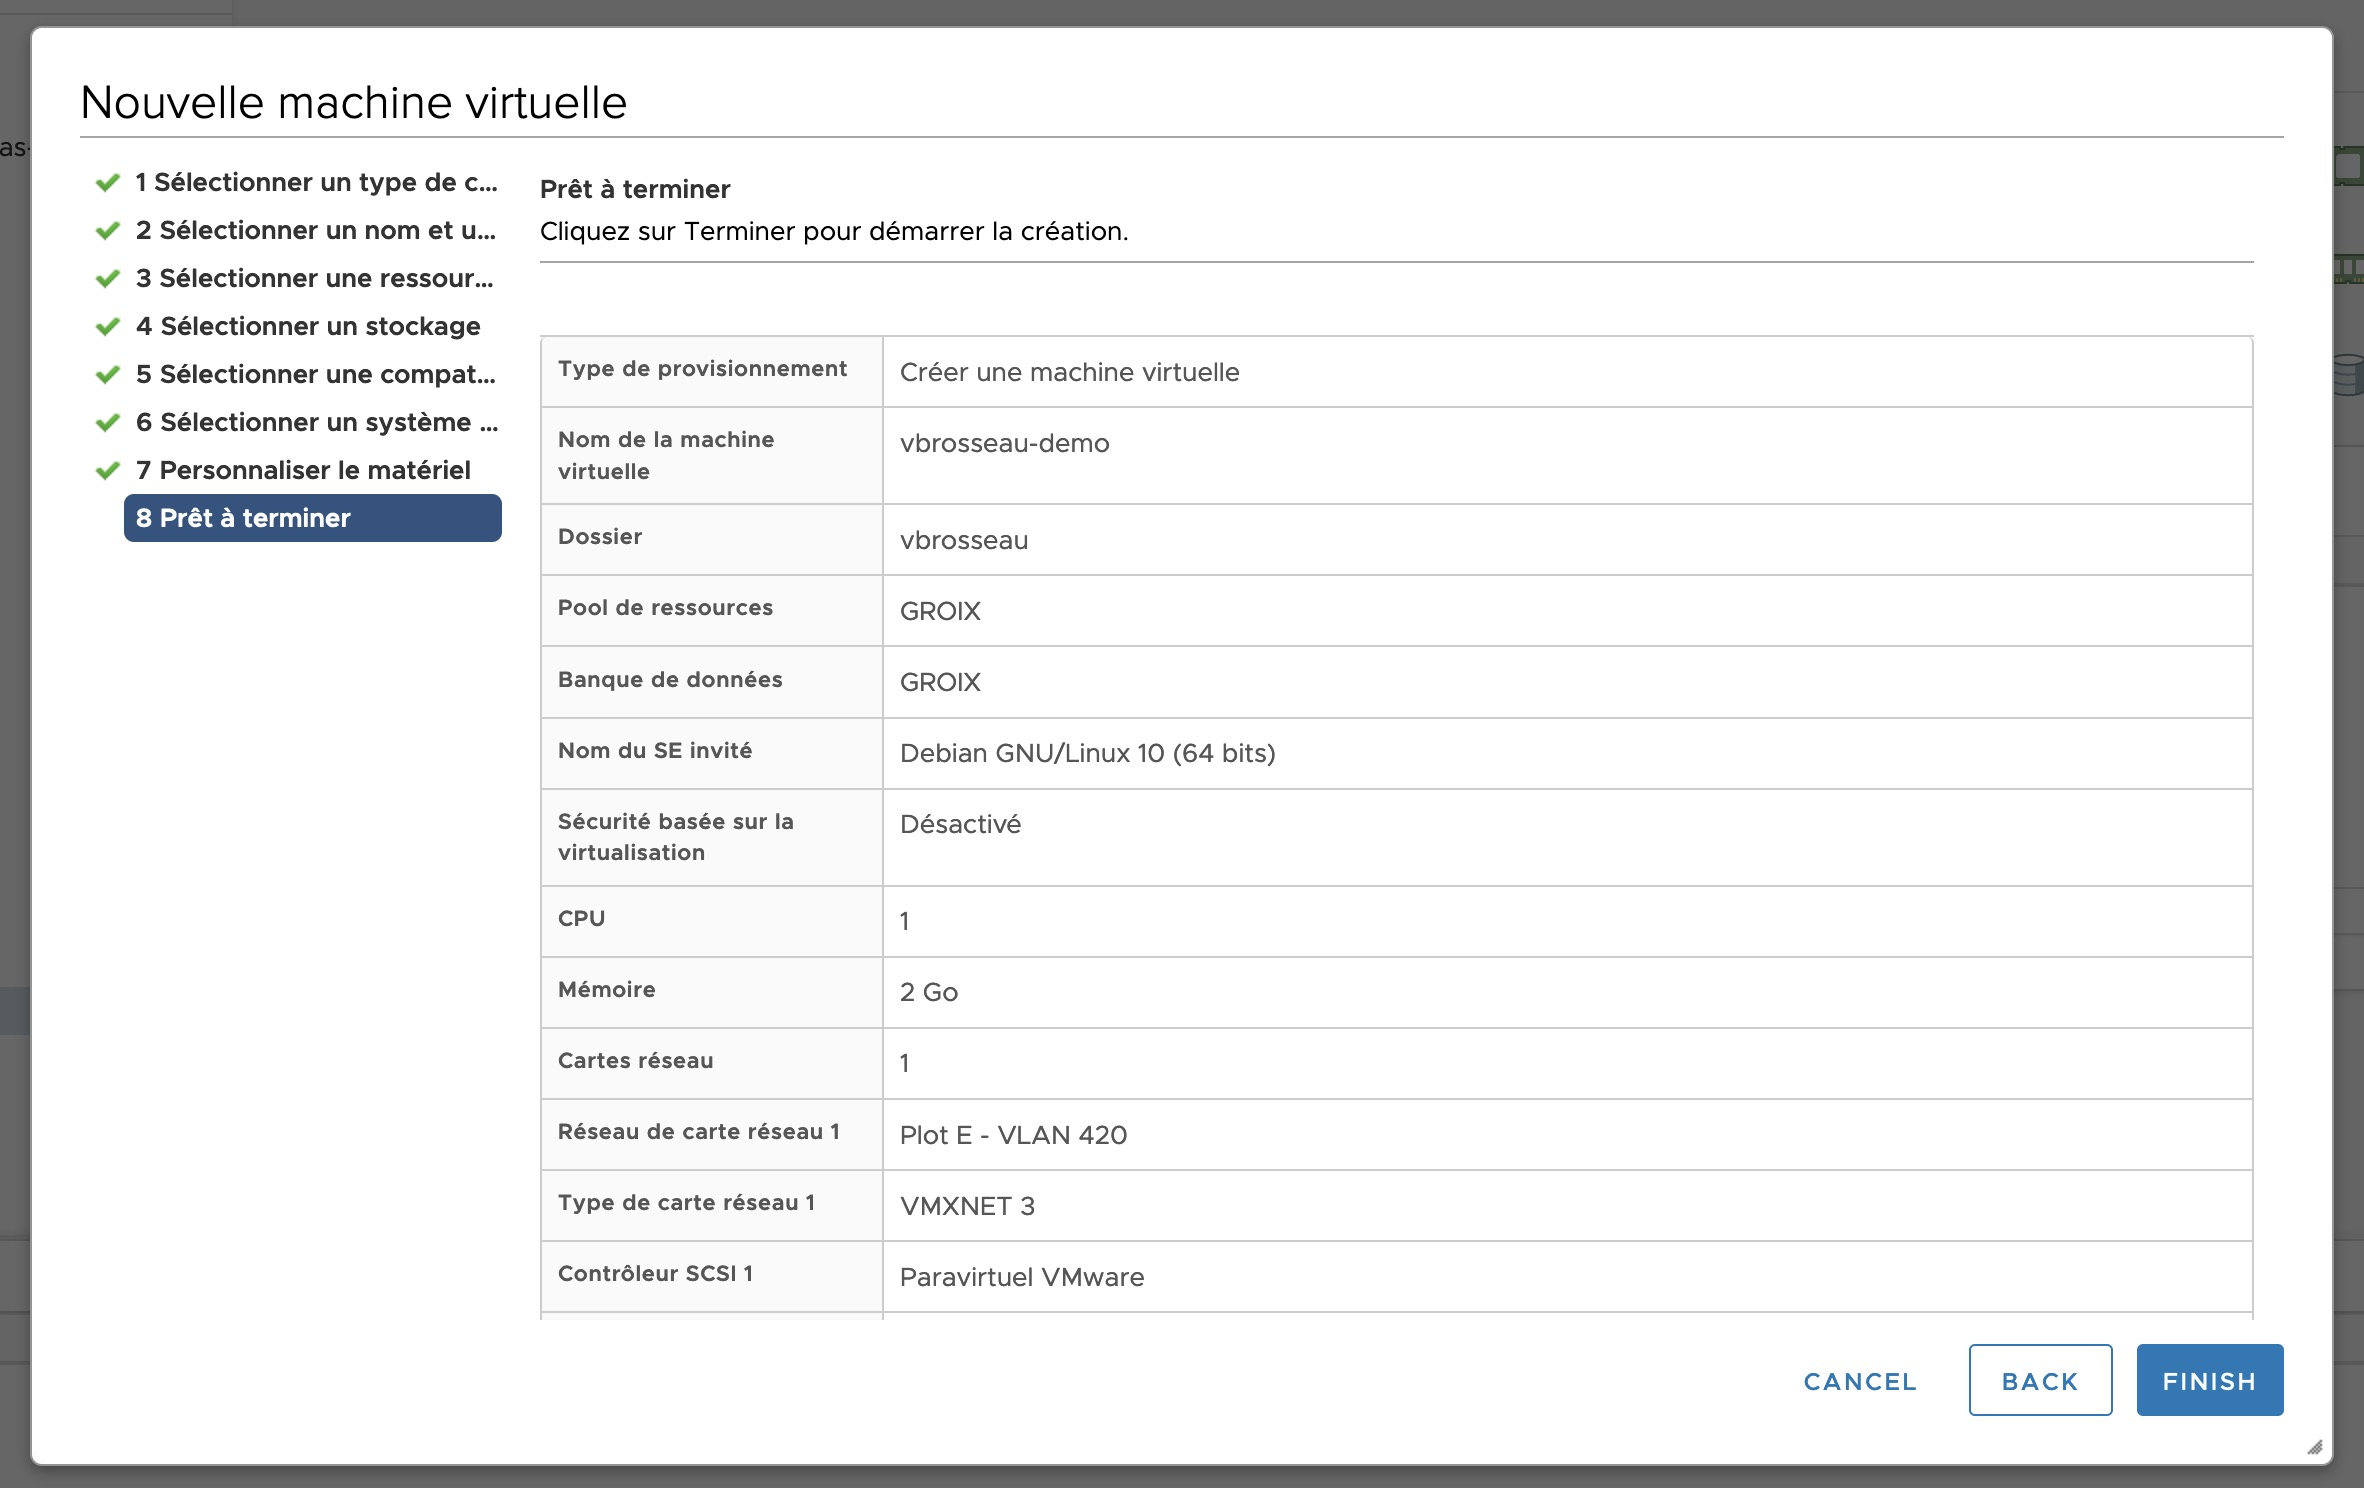
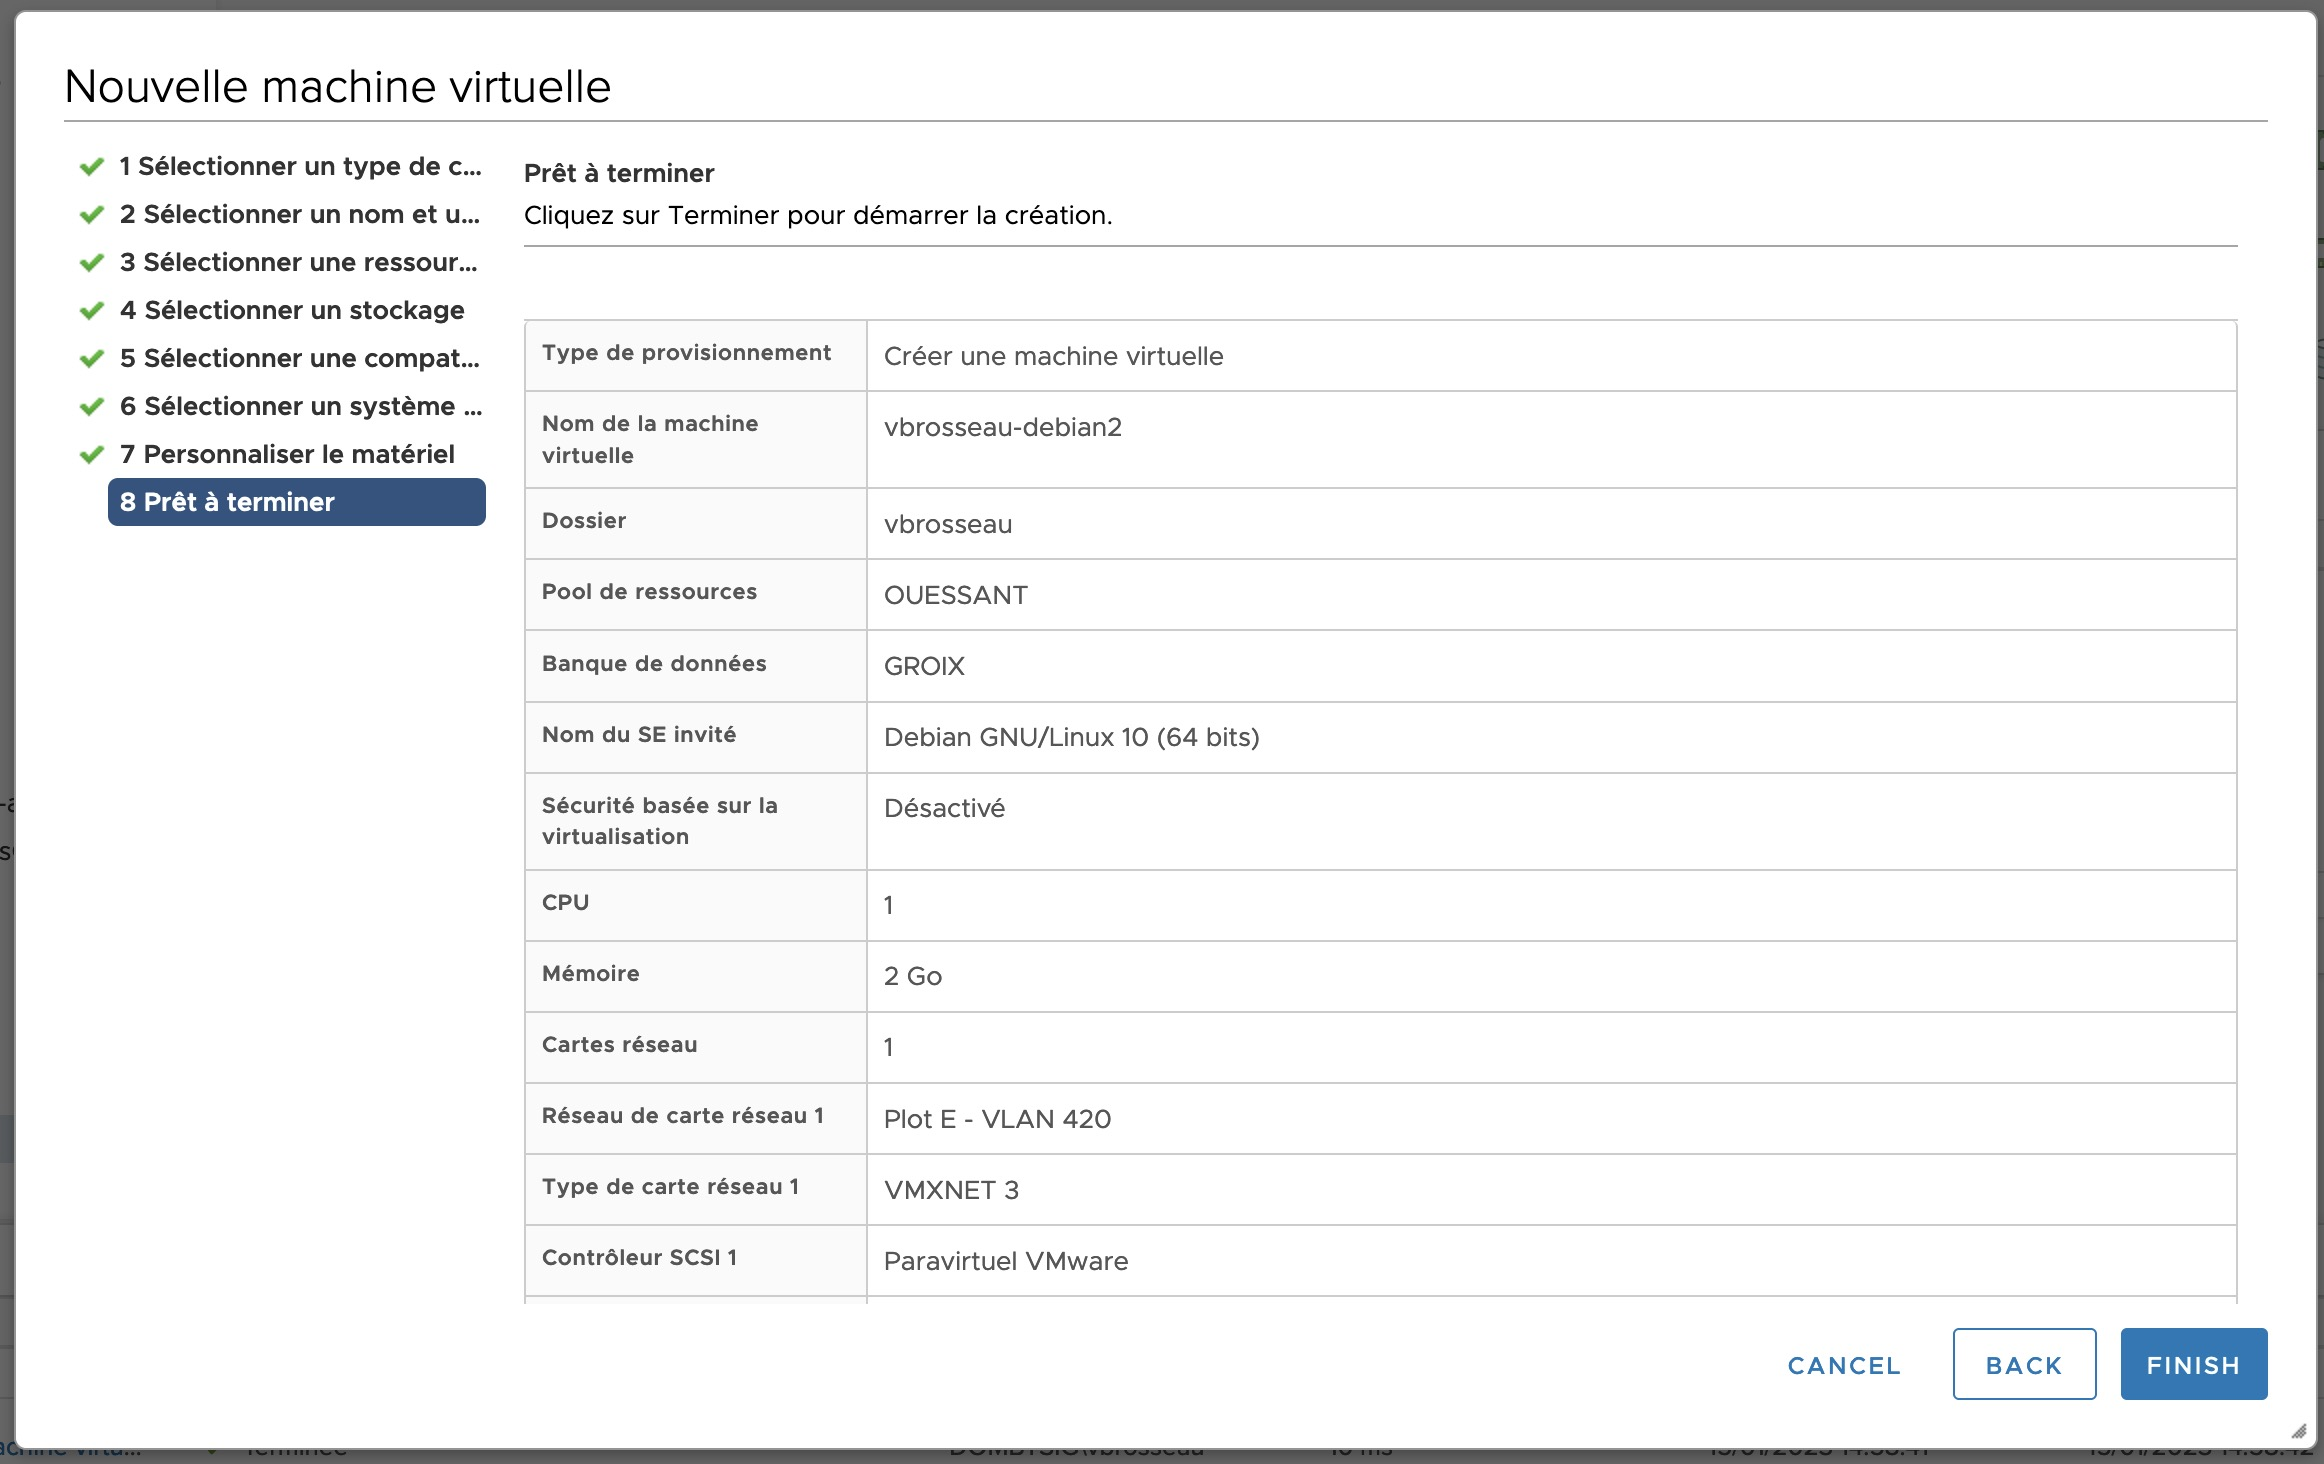
Update zone

Changed region(s): [[0.0, 0.0, 1.0, 1.0], [0.2169, 0.707, 0.4957, 0.8914], [0.3718, 0.3381, 0.5577, 0.6148]]

diff --git a/tp/devops/serveur/tp1.md b/tp/devops/serveur/tp1.md
@@ -68,11 +68,11 @@ Avant d'aller plus loin, observez les options du site. Si vous êtes curieux, vo
 
 ## Les règles à respecter
 
-L'équipe pédagogique vous a attribué l'accès à la zone de travail **GROIX**. C'est dans cette zone que vous allez créer vos VM. 
+L'équipe pédagogique vous a attribué l'accès à la zone de travail **OUESSANT**. C'est dans cette zone que vous allez créer vos VM. 
 
 Avant de continuer, quelques règles **sont importantes** pour utiliser aux mieux cette espace de travail partagé :
 
-- Ne pas créer de VM dans le dossier `GROIX` directement, mais dans un dossier à votre nom.
+- Ne pas créer de VM dans le dossier `OUESSANT` directement, mais dans un dossier à votre nom.
 - Nommer vos VM de la manière suivante : `<votre-nom>-<utilité de la machine>`. (Exemple: `vbrosseau-ap2ServeurDebianWeb`).
 - Choisir l'allocation dynamique pour le disque dur.
 - Installer les VMWARE Tools une fois la machine installée.
@@ -115,7 +115,7 @@ Il est important de ne jamais les oublier, car ils sont vraiment une source d'op
 
 Première étape, rangez votre VM dans un dossier à votre nom. Pour cela :
 
-- Cliquez droit sur le dossier `GROIX`.
+- Cliquez droit sur le dossier `OUESSANT`.
 - Cliquez sur `Nouveau dossier`.
 - Nommez le dossier avec votre nom (Exemple: `vbrosseau`).
 

diff --git a/tp/devops/serveur/tp1b.md b/tp/devops/serveur/tp1b.md
@@ -85,6 +85,8 @@ Dans les prochaines semaines nous installerons plusieurs serveurs, pas de paniqu
 
 ### Le choix de la langue
 
+
+
 ### Le choix du clavier
 
 ### Le choix du fuseau horaire
